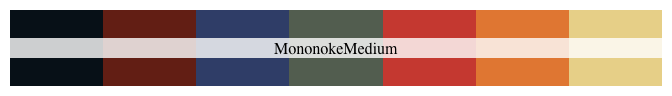
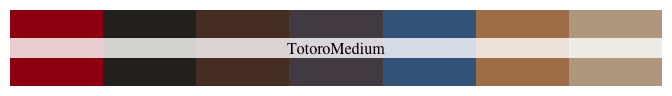
toter colour palette fix

diff --git a/README.md b/README.md
@@ -47,6 +47,16 @@ ghibli_palette("SpiritedMedium")
 
 ![](figure/unnamed-chunk-3-1.png)
 
+### My Neighbor Totoro
+
+![](http://78.media.tumblr.com/1d93af19859c5d79bd9ce518eedeeb91/tumblr_mv2zrkquSJ1s6aghro1_1280.jpg)
+
+``` r
+ghibli_palette("TotoroMedium")
+```
+
+![](figure/unnamed-chunk-4-1.png)
+
 ### Princess Mononoke
 
 ![](http://www.animationmagazine.net/wordpress/wp-content/uploads/Princess-Mononoke-post2.jpg)
@@ -55,7 +65,7 @@ ghibli_palette("SpiritedMedium")
 ghibli_palette("MononokeMedium")
 ```
 
-![](figure/unnamed-chunk-4-1.png)
+![](figure/unnamed-chunk-5-1.png)
 
 ### When Marnie Was There
 
@@ -65,7 +75,7 @@ ghibli_palette("MononokeMedium")
 ghibli_palette("MarnieMedium1")
 ```
 
-![](figure/unnamed-chunk-5-1.png)
+![](figure/unnamed-chunk-6-1.png)
 
 ### Ponyo
 
@@ -75,7 +85,7 @@ ghibli_palette("MarnieMedium1")
 ghibli_palette("PonyoMedium")
 ```
 
-![](figure/unnamed-chunk-6-1.png)
+![](figure/unnamed-chunk-7-1.png)
 
 Usage
 -----
